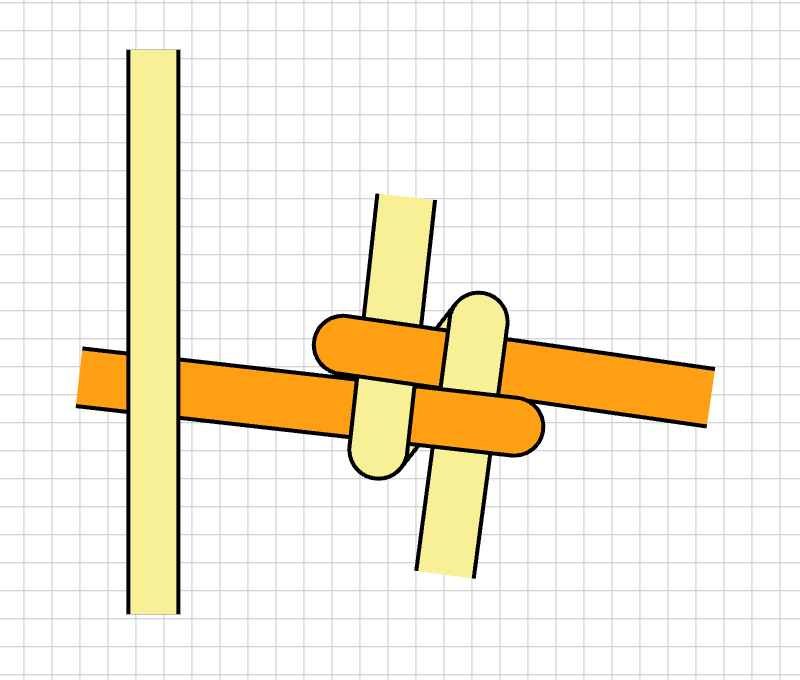
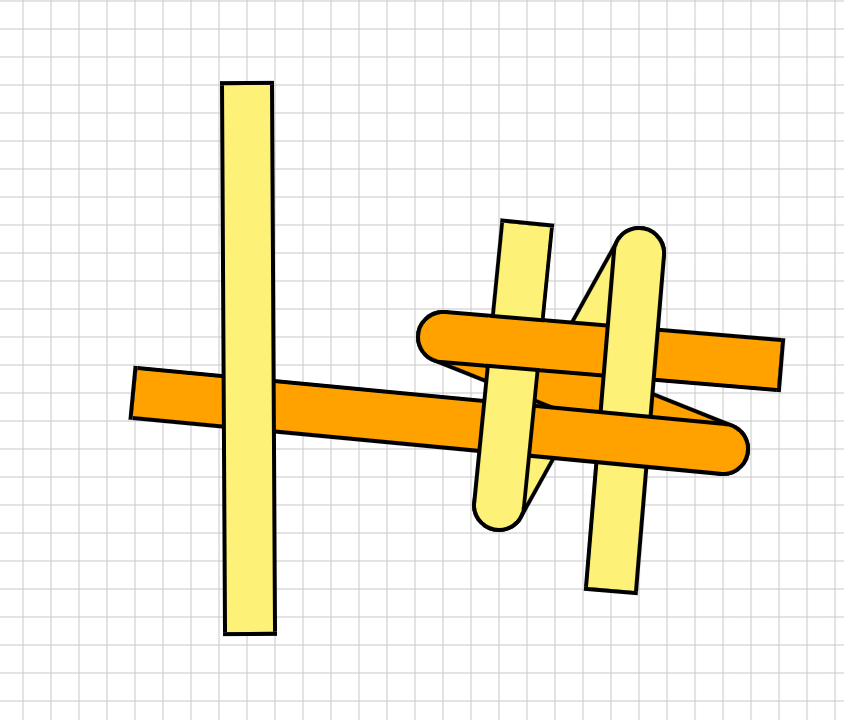
Use the author's own OpenStrandJS screenshot for the top-down half
Uploaded to the branch directly, since a screenshot pasted into a chat
never becomes a file this session can read -- every version before this
was a reconstruction. This is the real drawing, so the concept pair is
now two genuine screenshots on both sides.

Renamed onto the path the README already points at, and the
placeholder reconstruction it replaces is gone.

Claude-Session: https://claude.ai/code/session_015EMfi1FCPAYg6Aw5oEo1uM

diff --git a/README.md b/README.md
@@ -38,7 +38,7 @@ masking, and the box + strand sample in this app's studio, where the over lace p
 
 <table>
 <tr>
-<td width="50%"><img src="docs/readme/openstrand-2d.png" alt="OpenStrandJS: the box stitch top-down — width and masking, no depth"></td>
+<td width="50%"><img src="docs/readme/openstrand-2d.png" alt="OpenStrandJS: box + strand top-down — width and masking, no depth"></td>
 <td width="50%"><img src="docs/readme/scoubidou-3d.png" alt="Scoubidou3D: box + strand tilted — ribbons with thickness, really interlocked"></td>
 </tr>
 <tr>
